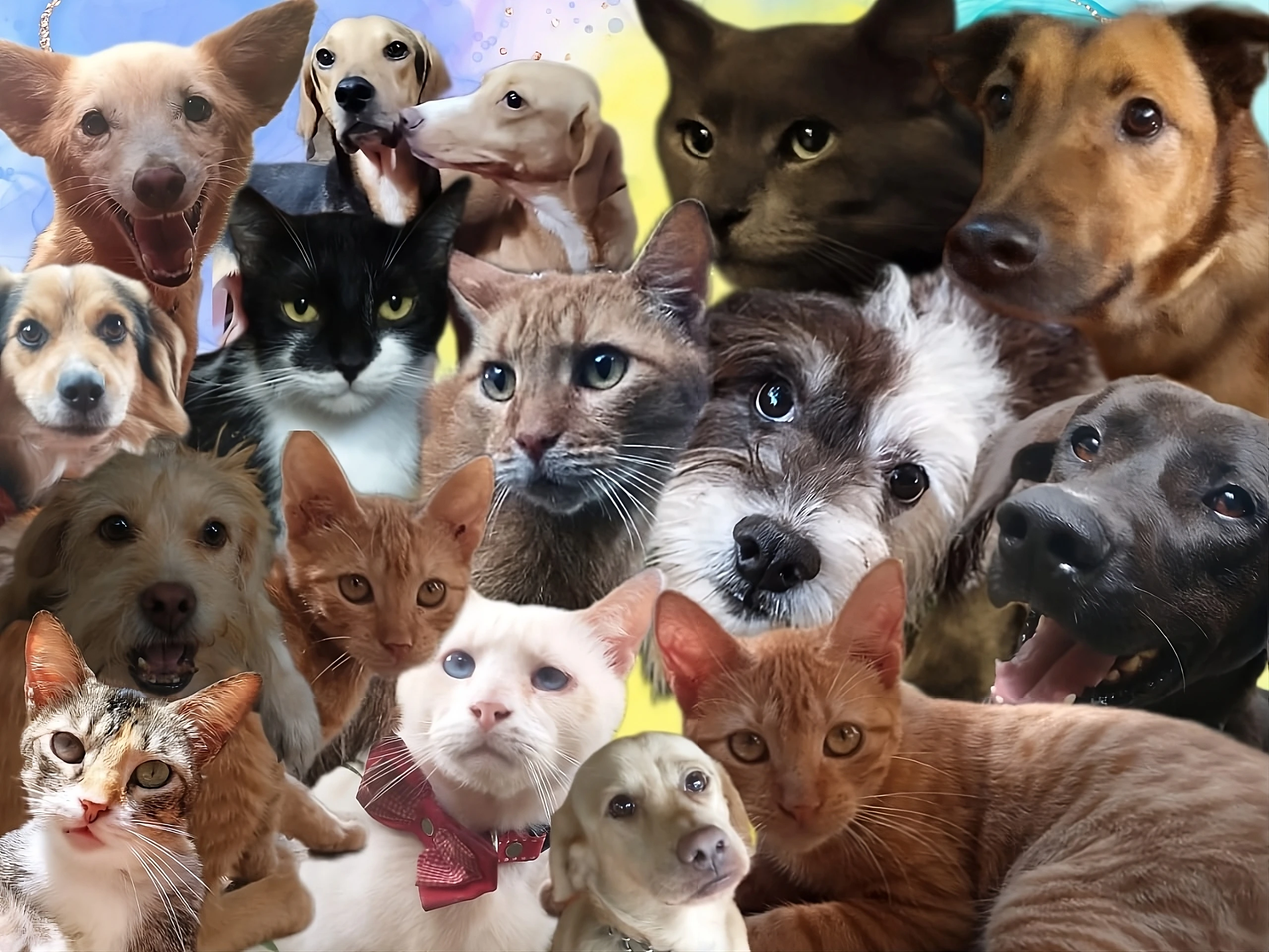
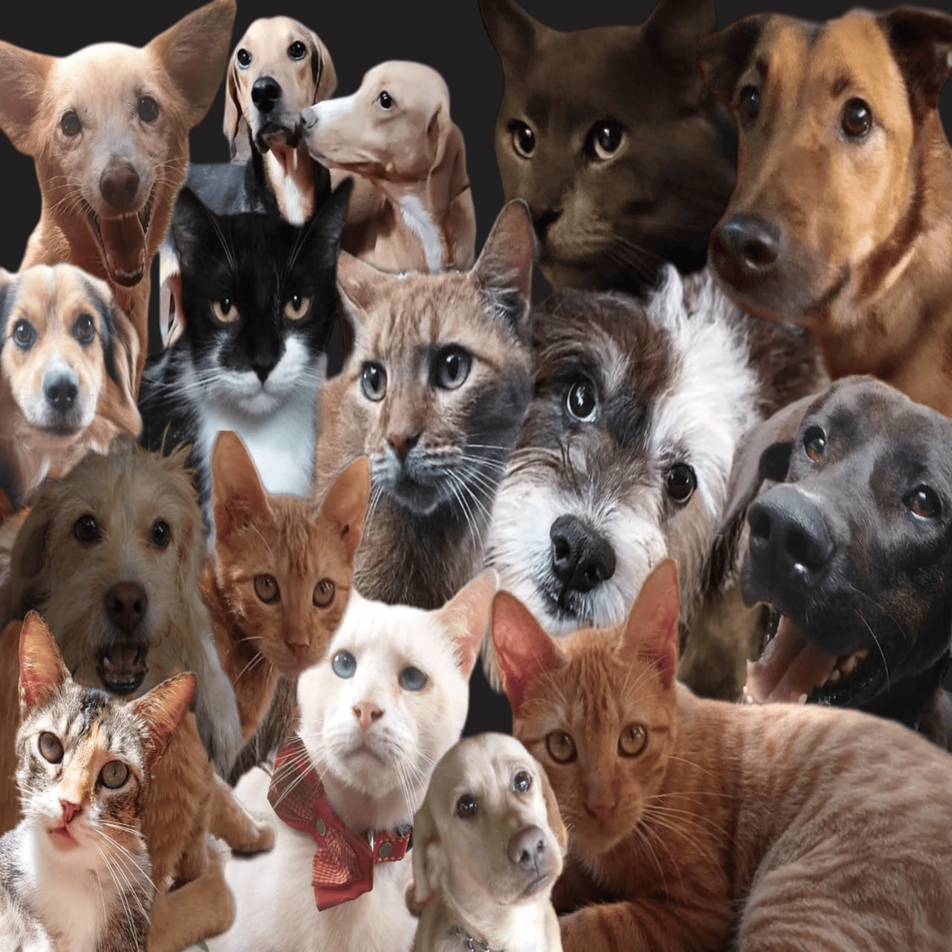
imagenes del carrusel nuevo tamaño

diff --git a/styles/hero.css b/styles/hero.css
@@ -31,8 +31,9 @@
 /* imagen del hero */
 #hero .c-img {
   width: 100%;
-  height: 95vh;
+  /* height: 95vh; */
   object-fit: cover;
+  max-height: 95vh;
 }
 
 /* contenedor del texto encima del hero */
